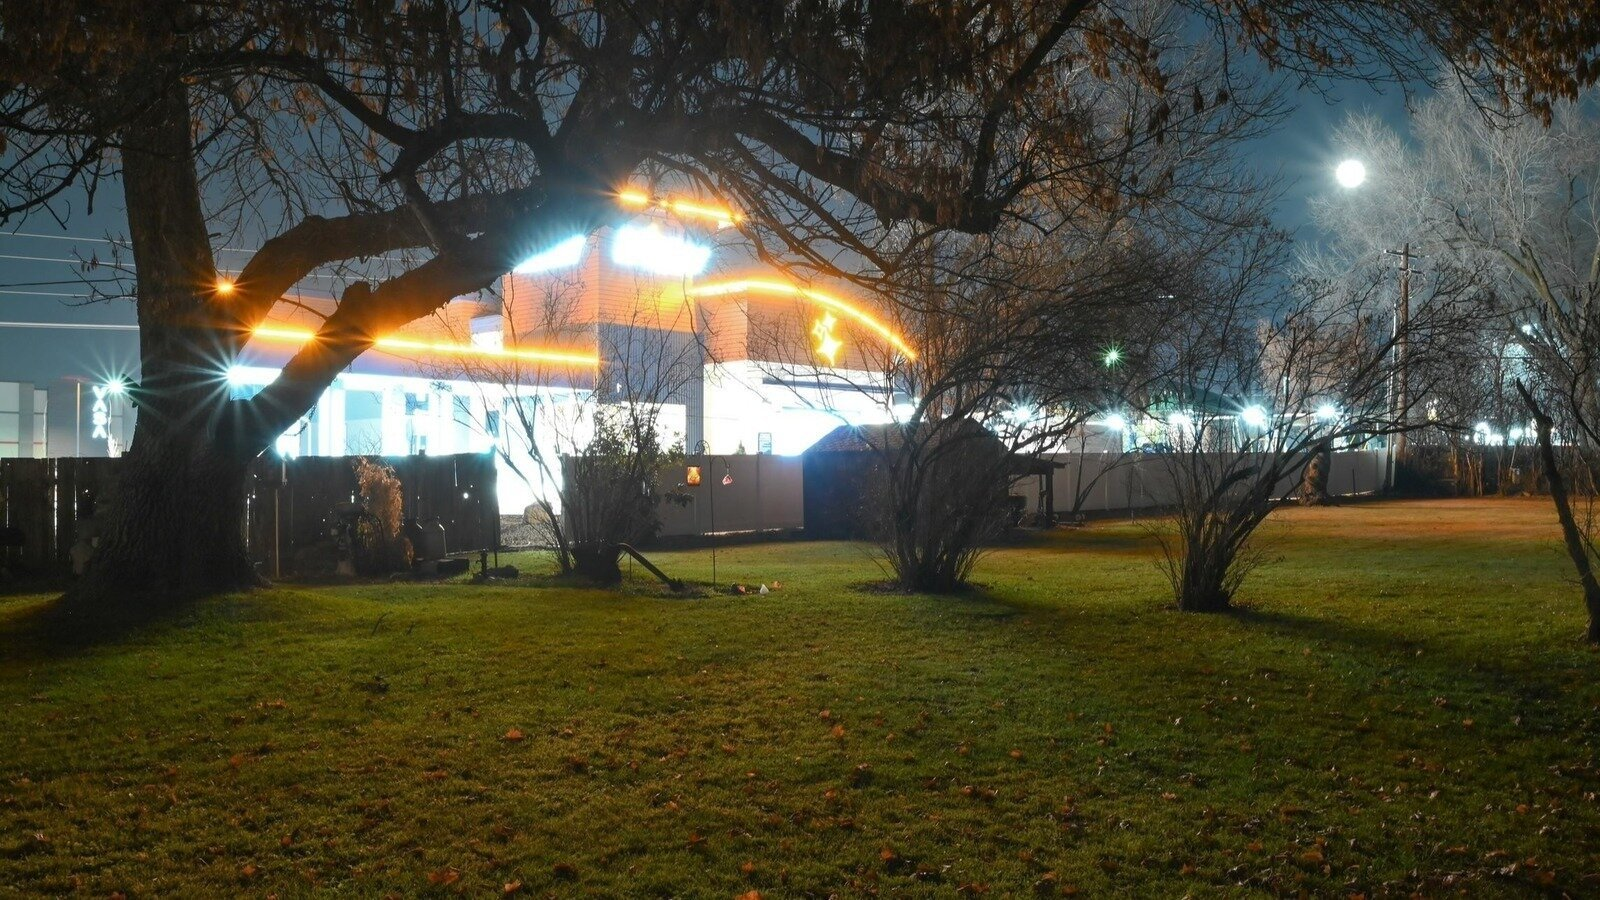
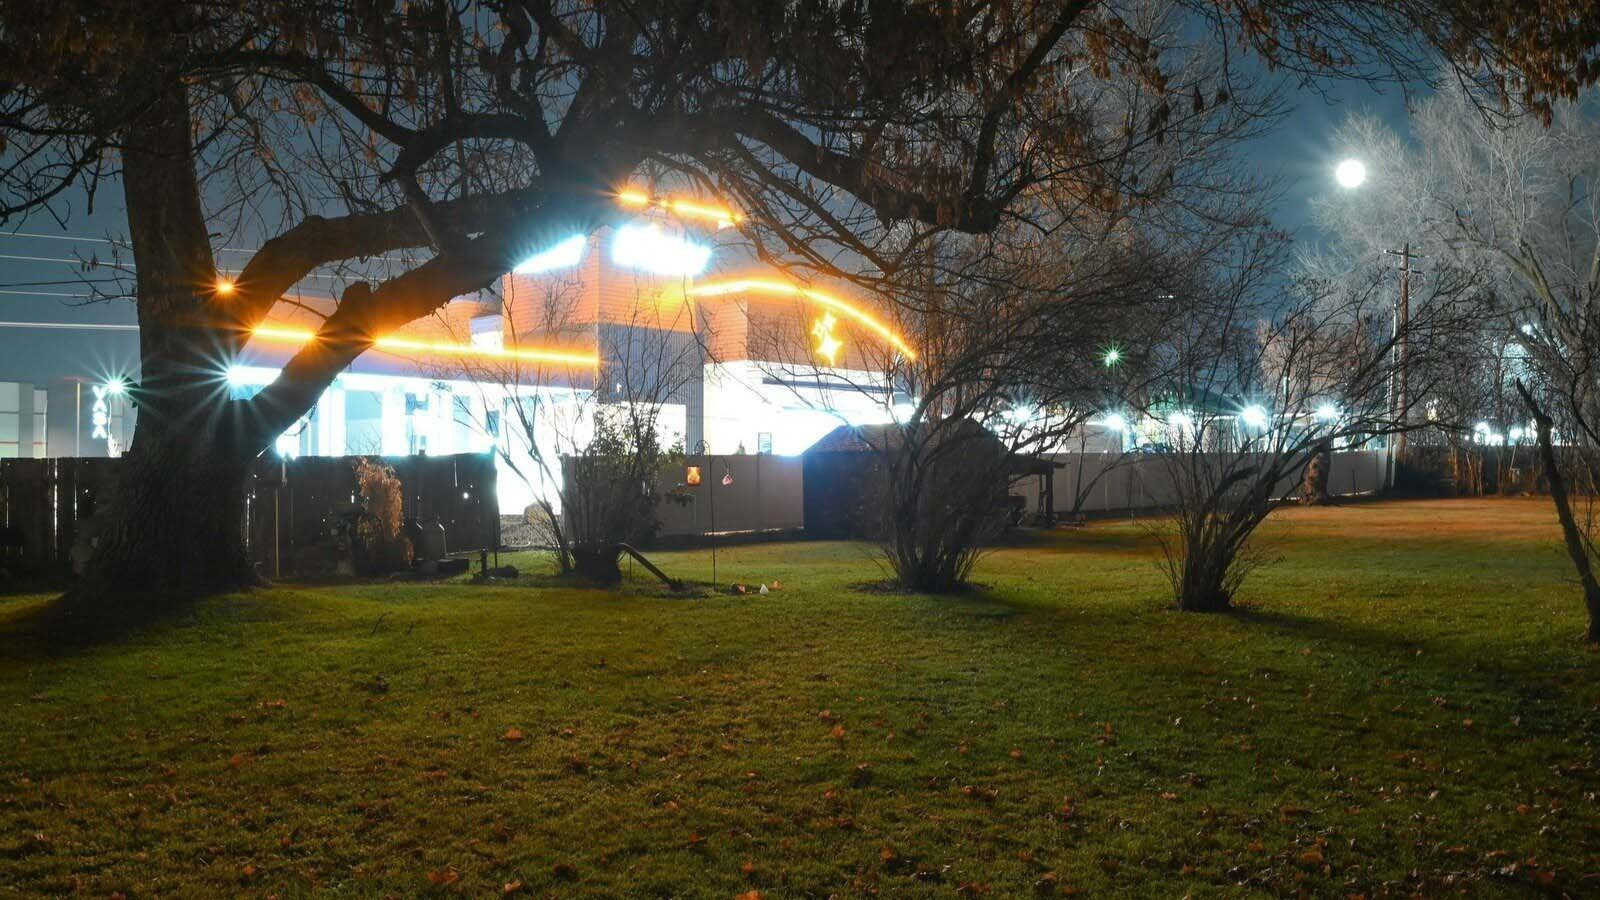
Scaled down images to be more effective

Changed region(s): [[0.375, 0.4667, 0.4062, 0.4978]]

diff --git a/client/src/pages/Main.js b/client/src/pages/Main.js
@@ -35,7 +35,7 @@ const Main = () => {
                     homes, and our peace.
                 </p>
                 <img
-                    src="./evidence/DSC_1676.jpg"
+                    src="./evidence/DSC_1732_RS.jpg"
                     alt="TODO"
                     className="img-fluid rounded p3"
                     width={616}
@@ -45,7 +45,7 @@ const Main = () => {
 
             <div className="d-md-flex justify-content-md-evenly mt-5 align-items-md-center">
                 <img
-                    src="./evidence/DSC_1693.jpg"
+                    src="./evidence/DSC_1740_RS.jpg"
                     alt="TODO"
                     className="img-fluid rounded p3"
                     width={616}
@@ -64,7 +64,7 @@ const Main = () => {
                     Health Organization (WHO) states that prolonged exposure to noise levels can cause health problems.
                 </p>
                 <img
-                    src="./evidence/DSC_1698.jpg"
+                    src="./evidence/DSC_1698_RS.jpg"
                     alt="TODO"
                     className="img-fluid rounded p3"
                     width={616}
@@ -74,7 +74,7 @@ const Main = () => {
 
             <div className="d-md-flex justify-content-md-evenly mt-5 align-items-md-center">
                 <img
-                    src="./evidence/DSC_1712.jpg"
+                    src="./evidence/DSC_1712_RS.jpg"
                     alt="TODO"
                     className="img-fluid rounded p3"
                     width={616}
@@ -94,7 +94,7 @@ const Main = () => {
                     that is negatively impacting this historic neighborhood.
                 </p>
                 <img
-                    src="./evidence/DSC_1715.jpg"
+                    src="./evidence/DSC_1676_RS.jpg"
                     alt="TODO"
                     className="img-fluid rounded p3"
                     width={616}
@@ -104,7 +104,7 @@ const Main = () => {
 
             <div className="d-md-flex justify-content-md-evenly mt-5 align-items-md-center">
                 <img
-                    src="./evidence/DSC_1732.jpg"
+                    src="./evidence/DSC_1693_RS.jpg"
                     alt="TODO"
                     className="img-fluid rounded p3"
                     width={616}
@@ -117,19 +117,6 @@ const Main = () => {
                     <br /><br />
                     Join us in demanding respect for our community's history and tranquility - sign this petition today!
                 </p>
-            </div>
-
-            <div className="d-md-flex justify-content-md-evenly mt-5 align-items-md-center">
-                <p className="p-3">
-                    Lorem Ipsum
-                </p>
-                <img
-                    src="./evidence/DSC_1740.jpg"
-                    alt="TODO"
-                    className="img-fluid rounded p3"
-                    width={616}
-                    height={416}
-                />
             </div>
 
             <div className="d-flex justify-content-center mt-5">
